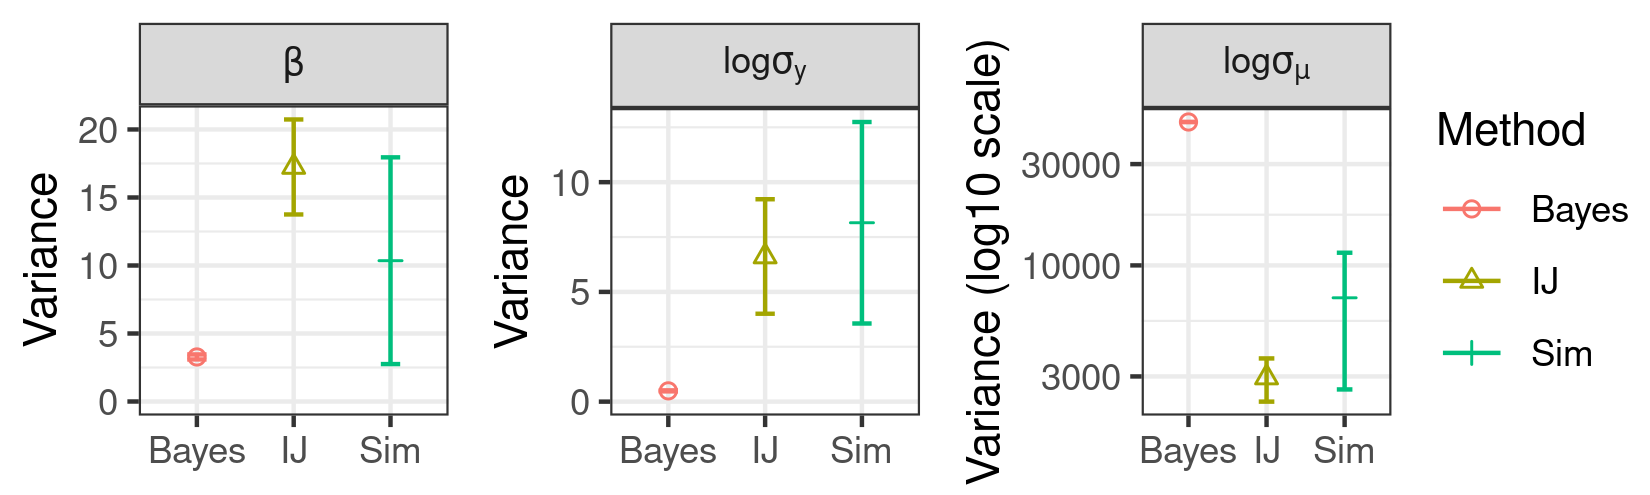
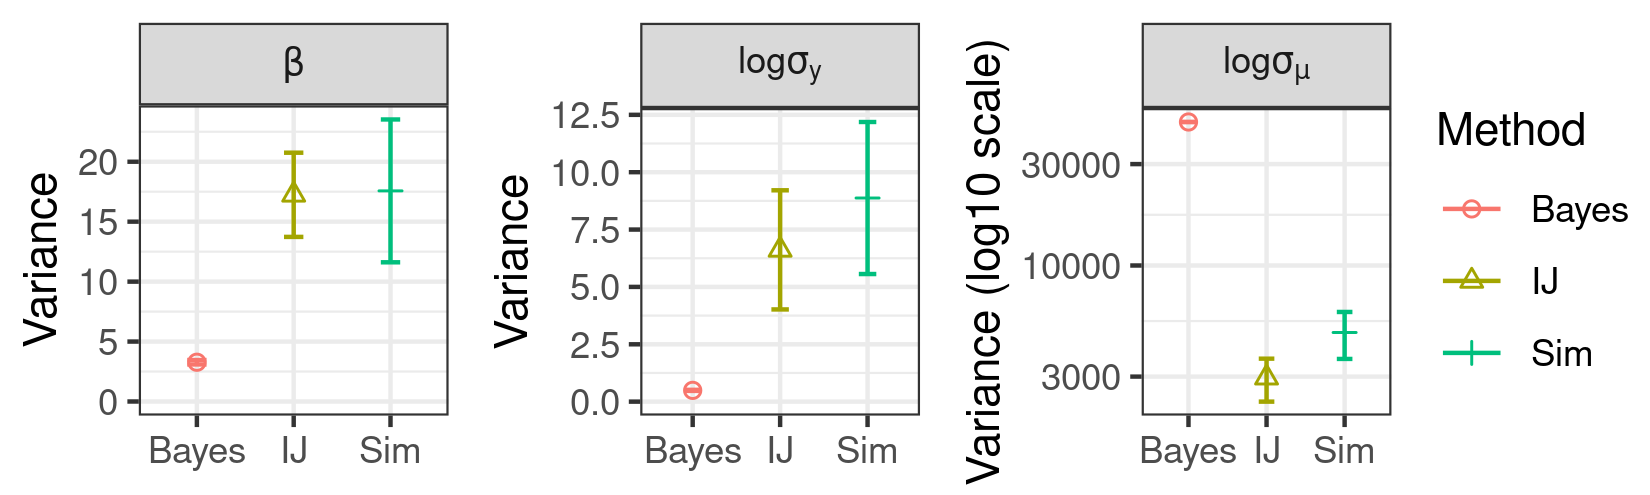
incorporate new sim data

diff --git a/paper/latex/figures_knitr.tex b/paper/latex/figures_knitr.tex
@@ -27,7 +27,7 @@
 \newcommand{\armTotalBootTimeHours}{266.83}
 \newcommand{\simNumRe}{100}
 \newcommand{\simNumObs}{10{,}000}
-\newcommand{\simNumSims}{11}
+\newcommand{\simNumSims}{100}
 \newcommand{\simNumMCMCDraws}{10{,}000}
 \newcommand{\mrpThetaDim}{129}
 \newcommand{\mrpNobs}{5{,}000}
@@ -46,7 +46,7 @@
 \begin{table}[h]
 \begin{center}
 % latex table generated in R 4.5.3 by xtable 1.8-4 package
-% Sat Apr 18 17:46:58 2026
+% Sat Apr 18 17:58:56 2026
 \begin{tabular}{|l|c|c|}
   \hline
  & Fixed effects only & Random and fixed effects \\ 
@@ -61,7 +61,7 @@ Logistic regression & 192 &  10 \\
 Models
 
 \vspace{0.1in}% latex table generated in R 4.5.3 by xtable 1.8-4 package
-% Sat Apr 18 17:46:58 2026
+% Sat Apr 18 17:58:56 2026
 \begin{tabular}{|l|c|c|}
   \hline
  & Cross-covariance estimate & Variance estimate \\ 
@@ -84,7 +84,7 @@ Covariances to estimate
 
 \def\ARMModelList{
 % latex table generated in R 4.5.3 by xtable 1.8-4 package
-% Sat Apr 18 17:46:58 2026
+% Sat Apr 18 17:58:56 2026
 \begin{table}[ht]
 \centering
 \begin{tabular}{rlllr}